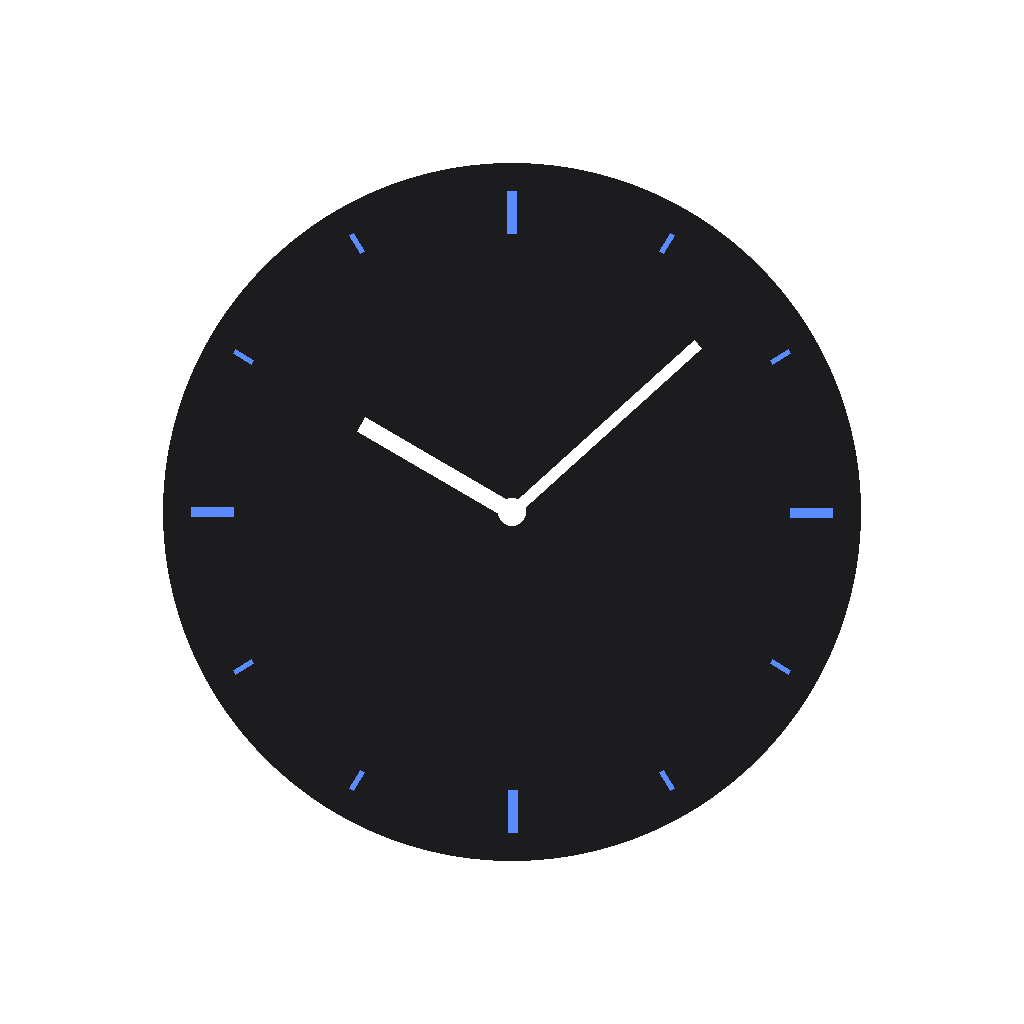
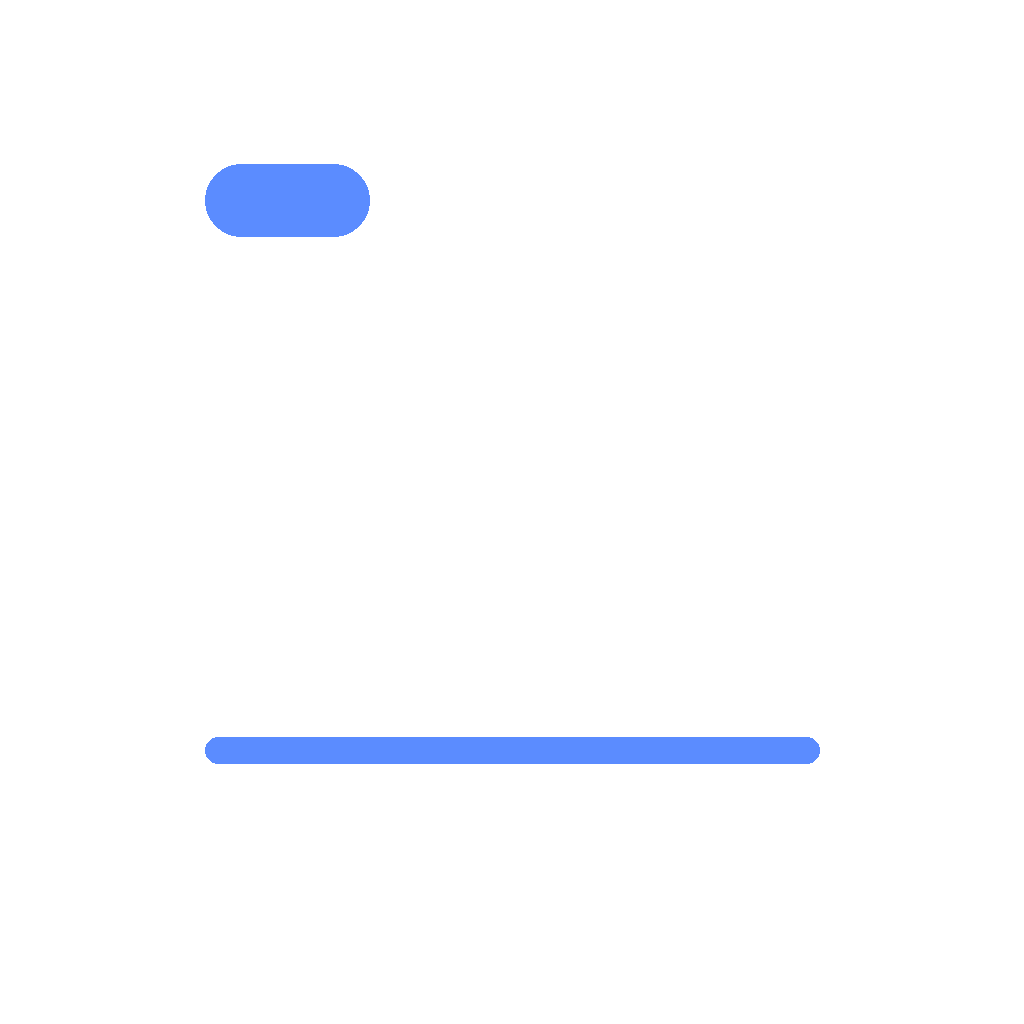
Beautification
cosmatic updates

diff --git a/app/src/screens/SettingsScreen.tsx b/app/src/screens/SettingsScreen.tsx
@@ -2,7 +2,7 @@ import Slider from "@react-native-community/slider";
 import React, { useEffect, useState } from "react";
 import { Pressable, StyleSheet, Text, View } from "react-native";
 import { DEFAULT_SETTINGS, getSettings, saveSettings } from "../storage/settingsStore";
-import type { AppSettings, TimeFormat, WidgetTextTheme } from "../types";
+import type { AppSettings, TimeFormat, WidgetBackgroundTheme } from "../types";
 import { refreshWidget } from "../widget/refreshWidget";
 
 export function SettingsScreen({ onBack }: { onBack: () => void }) {
@@ -52,7 +52,35 @@ export function SettingsScreen({ onBack }: { onBack: () => void }) {
         ))}
       </View>
 
-      <Text style={styles.sectionLabel}>Widget background</Text>
+      <Text style={styles.sectionLabel}>Widget theme</Text>
+      <View style={styles.segmented}>
+        {(["dark", "light"] as WidgetBackgroundTheme[]).map((theme) => (
+          <Pressable
+            key={theme}
+            style={[
+              styles.segment,
+              settings.widgetBackgroundTheme === theme && styles.segmentActive,
+            ]}
+            onPress={() => update({ widgetBackgroundTheme: theme })}
+          >
+            <Text
+              style={[
+                styles.segmentText,
+                settings.widgetBackgroundTheme === theme && styles.segmentTextActive,
+              ]}
+            >
+              {theme === "dark" ? "Dark" : "Light"}
+            </Text>
+          </Pressable>
+        ))}
+      </View>
+      <Text style={styles.hint}>
+        {settings.widgetBackgroundTheme === "dark"
+          ? "Dark card background with light text."
+          : "White card background with dark text."}
+      </Text>
+
+      <Text style={styles.sectionLabel}>Widget background opacity</Text>
       <Text style={styles.sectionValue}>{settings.widgetOpacity}% opaque</Text>
       <Slider
         style={{ width: "100%", height: 40 }}
@@ -69,28 +97,8 @@ export function SettingsScreen({ onBack }: { onBack: () => void }) {
         <Text style={styles.sliderEndText}>Transparent</Text>
         <Text style={styles.sliderEndText}>Solid</Text>
       </View>
-
-      <Text style={styles.sectionLabel}>Widget text colour</Text>
-      <View style={styles.segmented}>
-        {(["auto", "light", "dark"] as WidgetTextTheme[]).map((theme) => (
-          <Pressable
-            key={theme}
-            style={[styles.segment, settings.widgetTextTheme === theme && styles.segmentActive]}
-            onPress={() => update({ widgetTextTheme: theme })}
-          >
-            <Text
-              style={[
-                styles.segmentText,
-                settings.widgetTextTheme === theme && styles.segmentTextActive,
-              ]}
-            >
-              {theme[0].toUpperCase() + theme.slice(1)}
-            </Text>
-          </Pressable>
-        ))}
-      </View>
       <Text style={styles.hint}>
-        "Auto" picks light or dark text based on how opaque the widget background is.
+        Opacity applies to whichever theme you picked above — it never changes text colour.
       </Text>
     </View>
   );

diff --git a/app/src/widget/WorldClockWidget.tsx b/app/src/widget/WorldClockWidget.tsx
@@ -9,10 +9,24 @@ import { FlexWidget, TextWidget } from "react-native-android-widget";
 import type { AppSettings, TimeZoneEntry } from "../types";
 import { formatOffset, formatTime } from "../utils/time";
 
-function opacityToAlphaHex(opacity: number): string {
-  const clamped = Math.max(0, Math.min(100, opacity));
-  const alpha = Math.round((clamped / 100) * 255);
-  return alpha.toString(16).padStart(2, "0").toUpperCase();
+// Theme-based, not opacity-based: the opacity slider only ever controls how
+// see-through the card is, never text/background colour. Two explicit
+// palettes, chosen by the user in Settings — no "auto" guessing.
+const PALETTES = {
+  dark: { rgb: "28, 28, 30", text: "#FFFFFF", subText: "#D0D0D0" },
+  light: { rgb: "255, 255, 255", text: "#111111", subText: "#5C5C60" },
+} as const;
+
+// Using an rgba() *function* string (not an 8-digit hex) is the important
+// part here: an 8-digit hex is ambiguous between the CSS convention
+// (#RRGGBBAA, alpha last) and Android's native convention (#AARRGGBB, alpha
+// first) — that ambiguity was why the opacity slider used to look like it
+// wasn't doing anything (and made "opaque" settings render almost fully
+// transparent). rgba(r, g, b, a) names each channel explicitly, so there's
+// nothing for either convention to get backwards.
+function toRgba(rgb: string, opacityPercent: number): string {
+  const clamped = Math.max(0, Math.min(100, opacityPercent));
+  return `rgba(${rgb}, ${(clamped / 100).toFixed(2)})`;
 }
 
 export function WorldClockWidget({
@@ -22,12 +36,10 @@ export function WorldClockWidget({
   timezones: TimeZoneEntry[];
   settings: AppSettings;
 }) {
-  const isDark =
-    settings.widgetTextTheme === "dark" ||
-    (settings.widgetTextTheme === "auto" && settings.widgetOpacity >= 35);
-  const textColor = isDark ? "#FFFFFF" : "#111111";
-  const subTextColor = isDark ? "#D0D0D0" : "#444444";
-  const backgroundColor = `#1C1C1E${opacityToAlphaHex(settings.widgetOpacity)}`;
+  const palette = PALETTES[settings.widgetBackgroundTheme];
+  const textColor = palette.text;
+  const subTextColor = palette.subText;
+  const backgroundColor = toRgba(palette.rgb, settings.widgetOpacity);
 
   return (
     <FlexWidget

diff --git a/app/src/types.ts b/app/src/types.ts
@@ -1,11 +1,12 @@
 export type TimeFormat = "12h" | "24h";
-export type WidgetTextTheme = "auto" | "light" | "dark";
+/** "dark" = dark card background with light text. "light" = white card background with dark text. */
+export type WidgetBackgroundTheme = "dark" | "light";
 
 export interface AppSettings {
   timeFormat: TimeFormat;
   /** 0 = fully transparent, 100 = fully opaque */
   widgetOpacity: number;
-  widgetTextTheme: WidgetTextTheme;
+  widgetBackgroundTheme: WidgetBackgroundTheme;
 }
 
 export interface TimeZoneEntry {

diff --git a/app/src/storage/settingsStore.ts b/app/src/storage/settingsStore.ts
@@ -6,7 +6,7 @@ const KEY = "worldclock:settings";
 export const DEFAULT_SETTINGS: AppSettings = {
   timeFormat: "24h",
   widgetOpacity: 70,
-  widgetTextTheme: "auto",
+  widgetBackgroundTheme: "dark",
 };
 
 export async function getSettings(): Promise<AppSettings> {

diff --git a/app/scripts/generate_icons.py b/app/scripts/generate_icons.py
@@ -3,8 +3,10 @@ Generates icon.png, adaptive-icon.png, and a widget-preview placeholder.
 Run once locally (`python3 scripts/generate_icons.py`) and commit the output —
 these are static assets, not something CI needs to regenerate.
 Matches the portfolio's existing icon-generation convention (Python/Pillow).
+
+Icon is a digital (numeral) readout, not an analog clock face — matches the
+app/widget itself, which only ever shows digital time.
 """
-import math
 import os
 
 from PIL import Image, ImageDraw, ImageFont
@@ -18,33 +20,69 @@ WHITE = (255, 255, 255, 255)
 DIM = (138, 138, 142, 255)      # #8A8A8E
 
 
-def draw_clock_face(draw, cx, cy, r, face_color, hand_color, tick_color):
-    draw.ellipse([cx - r, cy - r, cx + r, cy + r], fill=face_color)
-    # Hour ticks
-    for i in range(12):
-        angle = math.radians(i * 30)
-        outer = r * 0.92
-        inner = r * (0.80 if i % 3 == 0 else 0.86)
-        x1, y1 = cx + inner * math.sin(angle), cy - inner * math.cos(angle)
-        x2, y2 = cx + outer * math.sin(angle), cy - outer * math.cos(angle)
-        width = max(2, int(r * (0.03 if i % 3 == 0 else 0.015)))
-        draw.line([x1, y1, x2, y2], fill=tick_color, width=width)
-    # Hands fixed at ~10:08, a friendly "world clock" look
-    hour_angle = math.radians(10 / 12 * 360)
-    minute_angle = math.radians(8 / 60 * 360)
-    hx, hy = cx + r * 0.5 * math.sin(hour_angle), cy - r * 0.5 * math.cos(hour_angle)
-    mx, my = cx + r * 0.72 * math.sin(minute_angle), cy - r * 0.72 * math.cos(minute_angle)
-    draw.line([cx, cy, hx, hy], fill=hand_color, width=max(3, int(r * 0.05)))
-    draw.line([cx, cy, mx, my], fill=hand_color, width=max(2, int(r * 0.035)))
-    draw.ellipse([cx - r * 0.04, cy - r * 0.04, cx + r * 0.04, cy + r * 0.04], fill=hand_color)
+def load_font(size):
+    for path in (
+        "/usr/share/fonts/truetype/dejavu/DejaVuSans-Bold.ttf",
+        "/usr/share/fonts/truetype/dejavu/DejaVuSansMono-Bold.ttf",
+    ):
+        try:
+            return ImageFont.truetype(path, size)
+        except OSError:
+            continue
+    return ImageFont.load_default()
+
+
+def draw_digital_face(draw, size, face_color, text_color, accent_color, transparent_bg):
+    pad = size * 0.06
+    card_r = size * 0.22
+    if not transparent_bg:
+        draw.rounded_rectangle([pad, pad, size - pad, size - pad], radius=card_r, fill=face_color)
+
+    inner_pad = size * 0.14
+    card_left, card_right = pad, size - pad
+
+    # Small accent "AM"-style tab, top-left, just for visual interest
+    tab_w, tab_h = size * 0.16, size * 0.07
+    tab_x, tab_y = card_left + inner_pad, pad + size * 0.10
+    draw.rounded_rectangle(
+        [tab_x, tab_y, tab_x + tab_w, tab_y + tab_h], radius=tab_h / 2, fill=accent_color
+    )
+
+    # Big digital time readout, centered, sized to fit within the card padding
+    time_text = "12:47"
+    max_width = card_right - card_left - inner_pad * 2
+    font_size = int(size * 0.30)
+    font = load_font(font_size)
+    bbox = draw.textbbox((0, 0), time_text, font=font)
+    while (bbox[2] - bbox[0]) > max_width and font_size > 10:
+        font_size -= 4
+        font = load_font(font_size)
+        bbox = draw.textbbox((0, 0), time_text, font=font)
+    tw, th = bbox[2] - bbox[0], bbox[3] - bbox[1]
+    tx = (card_left + card_right) / 2 - tw / 2 - bbox[0]
+    ty = size * 0.52 - th / 2 - bbox[1]
+    draw.text((tx, ty), time_text, font=font, fill=text_color)
+
+    # Thin accent underline
+    line_y = size * 0.72
+    draw.rounded_rectangle(
+        [card_left + inner_pad, line_y, size - pad - inner_pad, line_y + size * 0.025],
+        radius=size * 0.0125,
+        fill=accent_color,
+    )
 
 
 def make_icon(size, filename, transparent_bg=False):
     img = Image.new("RGBA", (size, size), (0, 0, 0, 0) if transparent_bg else BG)
     draw = ImageDraw.Draw(img)
-    cx, cy = size / 2, size / 2
-    r = size * 0.34
-    draw_clock_face(draw, cx, cy, r, face_color=(28, 28, 30, 255), hand_color=WHITE, tick_color=ACCENT)
+    draw_digital_face(
+        draw,
+        size,
+        face_color=(28, 28, 30, 255),
+        text_color=WHITE,
+        accent_color=ACCENT,
+        transparent_bg=transparent_bg,
+    )
     img.save(os.path.join(ASSETS, filename))
     print(f"wrote {filename} ({size}x{size})")
 

diff --git a/README.md b/README.md
@@ -80,6 +80,21 @@ to reinstall/uninstall repeatedly.
   Pillow. Swap it for a real screenshot of the widget once you've built and
   placed it on a home screen — that's what Android shows in the widget
   picker.
+- Widget background/text colour is theme-based, not "auto": `Settings →
+  Widget theme` picks **Dark** (dark card, light text) or **Light** (white
+  card, dark text) explicitly — `src/widget/WorldClockWidget.tsx`. The
+  opacity slider only ever fades that chosen background; it never changes
+  text colour.
+- Background colour is built as an `rgba(r, g, b, a)` string, not an
+  8-digit hex. An 8-digit hex is ambiguous between the CSS convention
+  (`#RRGGBBAA`, alpha last) and Android's native convention (`#AARRGGBB`,
+  alpha first) — that ambiguity was the original bug behind the opacity
+  slider appearing to do nothing. `rgba()` names each channel explicitly,
+  so don't reintroduce a hex+alpha shortcut here.
+- The app icon (`assets/icon.png`, `assets/adaptive-icon.png`) is a digital
+  readout ("12:47"), not an analog clock face, to match what the widget
+  itself actually shows. Regenerate with
+  `python3 scripts/generate_icons.py` after editing the script.
 
 ## Currency data
 
